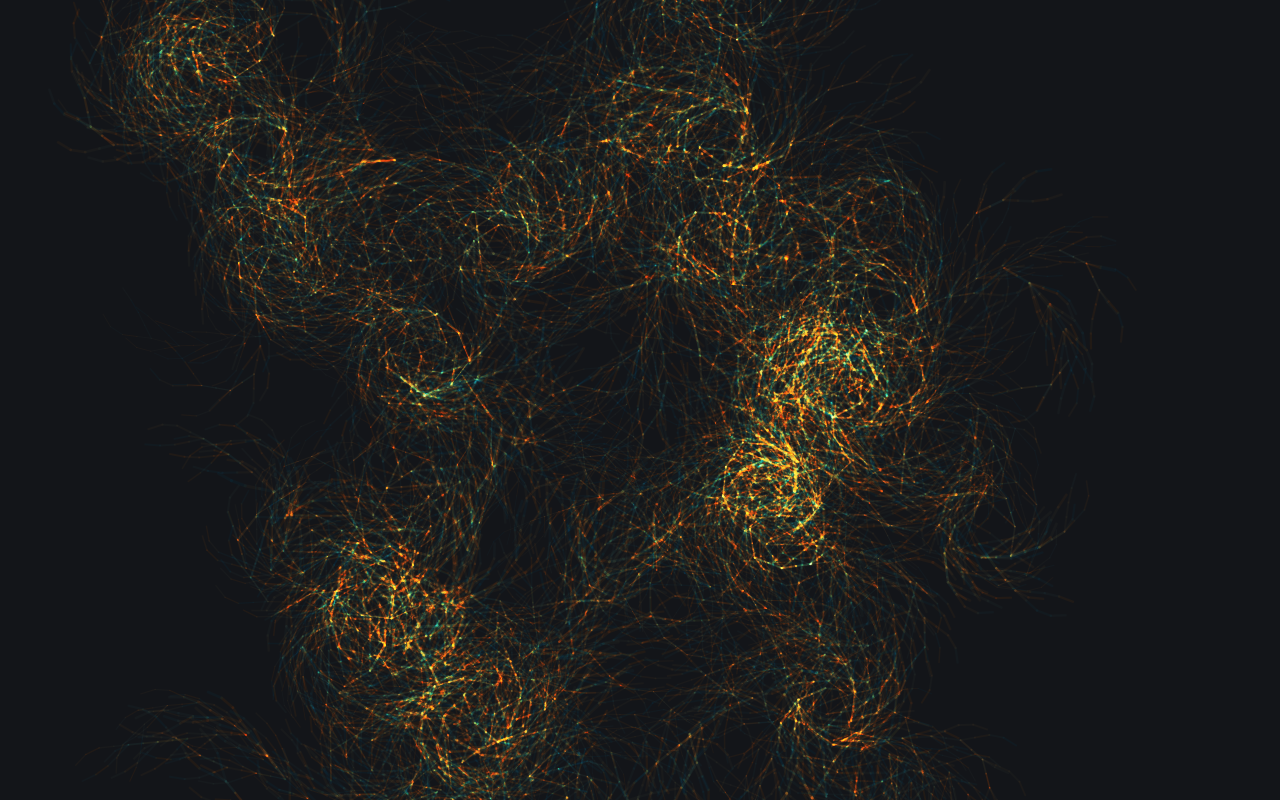
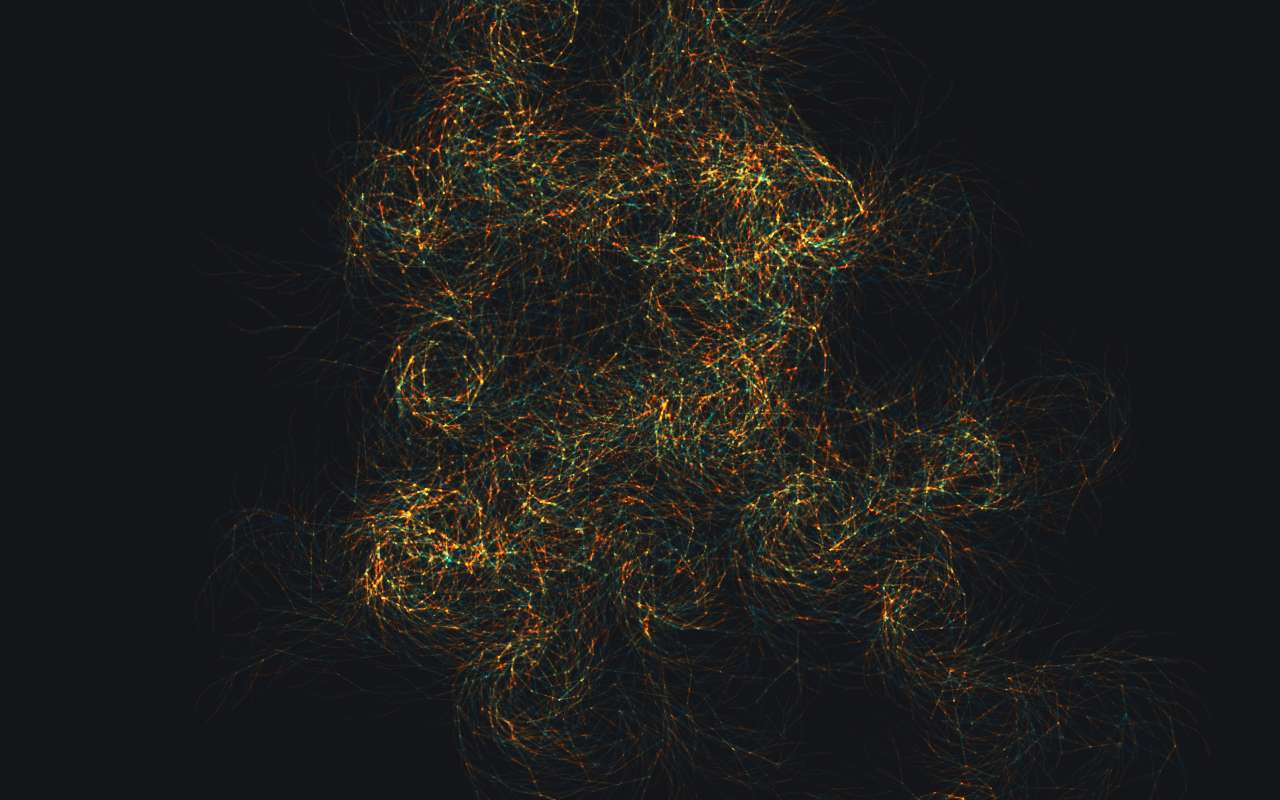
woeker

Changed region(s): [[0.0938, 0.0, 0.8125, 1.0], [0.8125, 0.875, 0.8438, 0.9062], [0.5312, 0.9062, 0.5625, 0.9375]]

diff --git a/woeker.js b/woeker.js
@@ -3,11 +3,12 @@ Visual experiment with L-systems (Lindenmayer System).
 Originally developed by biologist Aristid Lindenmayer to describe the behaviour of plant cells
 and to model the growth of plants and trees.
 
+Example string and ruleset
 Alphabet: FX+-[]
-Axiom: X
+Axiom: [+FX][-FX]
 Ruleset:
-		X -> F−[[X]+X]+F[+FX]−X
-		F -> FF
+		X -> FX
+		F -> FF-[-FF+F+F]+[+FF-F-F]
 
 Rules for drawing:
     F: draw line and move forward
@@ -27,7 +28,7 @@ function gen(sentence) {
 
     for (var i = 0; i < sentence.length; ++i) {
         found = false;
-    	for (var j = 0; j < ruleSet.length; j++) {
+    	for (var j = 0; j < ruleSet.length; ++j) {
 		    if (sentence[i] == ruleSet[j][0]) {
 		        nextSentence += ruleSet[j][1];
 		        found = true;
@@ -66,7 +67,7 @@ function display(sentence) {
     			break;
 
     		case '+':
-    			rotate(theta + modulation);
+                rotate(theta + modulation);
     			break;
 
     		case '-':

diff --git a/README.md b/README.md
@@ -4,13 +4,12 @@ Woeker
 Woeker is a series of experiments with L-systems (Lindenmayer Systems) in p5js (Processing).
 Originally developed by biologist Aristid Lindenmayer to describe the behaviour of plant cells and to model the growth of plants and trees.
 
+Example string and ruleset:
 Alphabet: FX+-[]
-
 Axiom: X
-
 Ruleset:
--	X -> F−[[X]+X]+F[+FX]−X
--	F -> FF
+-	X -> FX
+-	F -> FF-[-FF+F+F]+[+FF-F-F]
 
 Rules for drawing:
 -	F: draw line and move forward
